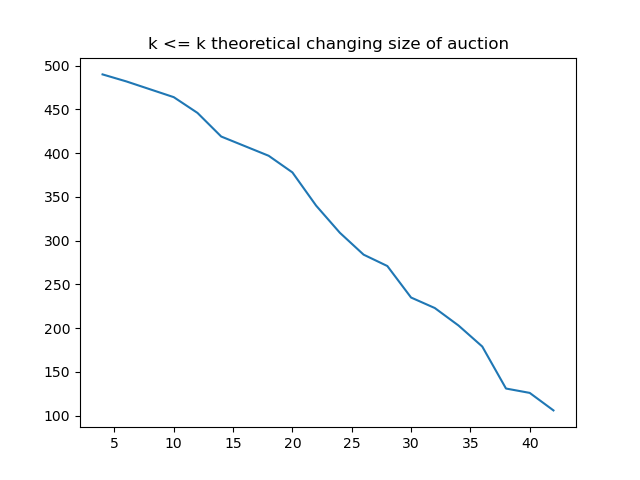
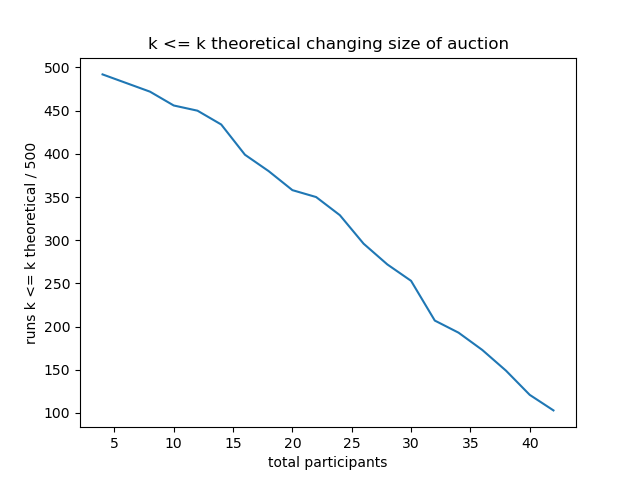
axes labels, legend

diff --git a/runners.py b/runners.py
@@ -164,12 +164,16 @@ def VaryK(hidePrints):
     plt.figure()
     plt.plot(xAxis,yKTheo)
     plt.title("k <= k theoretical changing k")
+    plt.xlabel("k")
+    plt.ylabel("runs k <= k theoretical / 500")
     plt.savefig('./results/Result1_KTheo.png')
 
     plt.figure()
     plt.plot(xAxis,yAxis)
     plt.axhline(y = 0, color = 'r', linestyle = ':', label = "red line") 
     plt.title("Avg utility of leader changing k")
+    plt.xlabel("k")
+    plt.ylabel("Avg Utility of Cartel Leader across 500 runs")
     plt.savefig('./results/Result1_LeaderUtil.png')
     plt.show()
 
@@ -250,6 +254,9 @@ def Vary_CM_at_Diff_K(hidePrints):
     plt.plot(xAxis,yKTheo[1],label='k=0.07',color='green')
     plt.plot(xAxis,yKTheo[2],label='k=0.1',color='red')
     plt.title("k <= k theoretical changing cartel members at different k values")
+    plt.xlabel("cartel members")
+    plt.ylabel("runs k <= k theoretical / 500")
+    plt.legend()
     plt.savefig('./results/Result2_KTheo.png')
 
     plt.figure()
@@ -257,6 +264,9 @@ def Vary_CM_at_Diff_K(hidePrints):
     plt.plot(xAxis,yAxis[1],label='k=0.07',color='green')
     plt.plot(xAxis,yAxis[2],label='k=0.1',color='red')
     plt.title("Avg utility of leader changing cartel members at different k values")
+    plt.xlabel("cartel members")
+    plt.ylabel("Avg Utility of Cartel Leader across 500 runs")
+    plt.legend()
     plt.savefig('./results/Result2_LeaderUtil.png')
     plt.show()
 
@@ -333,12 +343,16 @@ def VarySize(hidePrints):
     plt.figure()
     plt.plot(xAxis,yKTheo)
     plt.title("k <= k theoretical changing size of auction")
+    plt.xlabel("total participants")
+    plt.ylabel("runs k <= k theoretical / 500")
     plt.savefig('./results/Result3_KTheo.png')
 
     plt.figure()
     plt.plot(xAxis,yAxis)
     plt.axhline(y = 0, color = 'r', linestyle = ':', label = "red line") 
     plt.title("Avg utility of leader changing size of auction")
+    plt.xlabel("total participants")
+    plt.ylabel("Avg Utility of Cartel Leader across 500 runs")
     plt.savefig('./results/Result3_LeaderUtil.png')
     plt.show()
 
